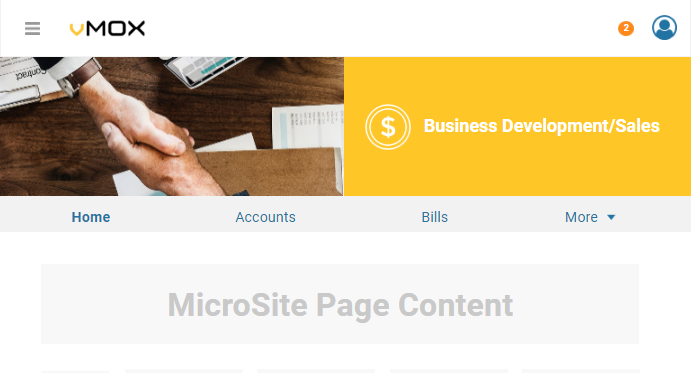
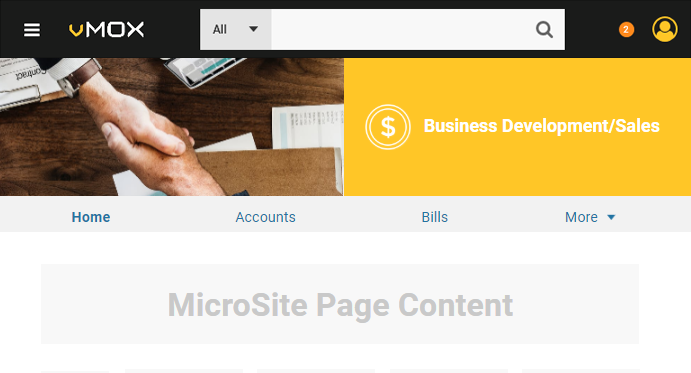
updating color

Changed region(s): [[0.0, 0.0, 1.0, 0.1769]]

diff --git a/HandoffPages/vMOXNavigation.html b/HandoffPages/vMOXNavigation.html
@@ -125,7 +125,7 @@
   <h3 class="vmox bm-0">Top Navigation Bar</h3>
   <hr class="vMOX tm-0"/>
   
-  <p class="light-content larger vmox">The Top Navigation Bar is a sticky/fixed positioned bar which is used to give the user quick access to search, alerts and the global role menu at all times. The navigation bar has a #FFF background with a light #F2F2F2 1px border. </p>
+  <p class="light-content larger vmox">The Top Navigation Bar is a sticky/fixed positioned bar which is used to give the user quick access to search, alerts and the global role menu at all times. The navigation bar has a #1A1B1A background with no border. </p>
   
   <div class="image-container bm-100">
     <h5 class="vmox center bm-10 tm-50">Top Navigation Bar</h5>
@@ -138,6 +138,8 @@
   
   <h3 class="vmox bm-0">Video Walk-Through</h3>
   <hr class="vMOX tm-0"/>
+  
+   <p class="light-content larger vmox">This video shows the navigation with a white background.  I apologize for the inconsistency and if it needs to be corrected, please let me know.</p>
   
   <video width="1000" height="650" controls>
     <source src="../img/handoff/navigation/NavigationHandoff.mp4" type="video/mp4">
